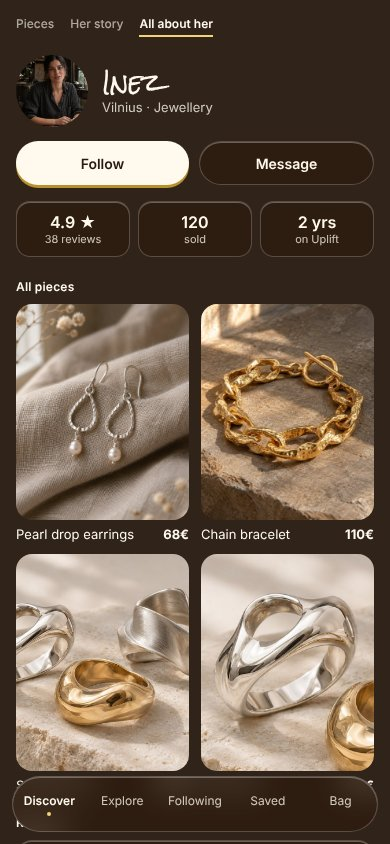
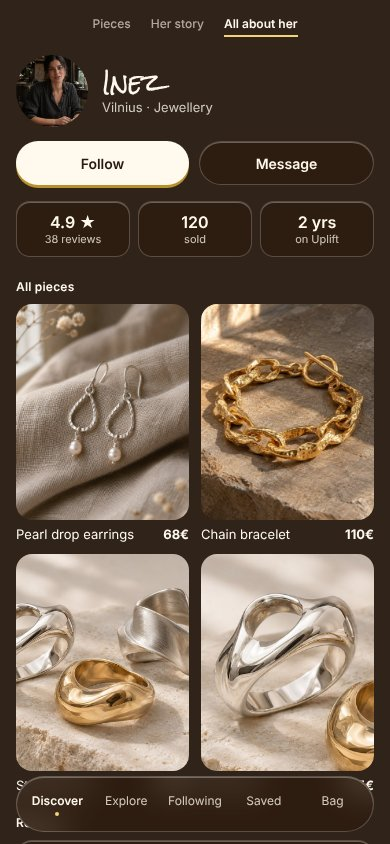
Discover v3 fixes: centred tabs, equal thumbs, bounce instead of hint text, no ellipsis + 20-char titles, centred nav
Claude-Session: https://claude.ai/code/session_016UKgzHdCXnhGePkvkRhLow

diff --git a/docs/design/screens/03-discover-v3.dc.html b/docs/design/screens/03-discover-v3.dc.html
@@ -52,14 +52,17 @@ button.sec:not(.gs){background:transparent;border:0}
 .more{position:absolute;left:16px;right:16px;bottom:106px;z-index:8;display:grid;grid-template-columns:repeat(4,minmax(0,1fr));gap:8px}
 .tb{width:100%;height:72px;border-radius:14px;overflow:hidden;border:0;padding:0;background:none;cursor:pointer;flex-shrink:0;position:relative}
 .tb img{width:100%;height:100%;object-fit:cover;display:block}
-.tb.sel{outline:2px solid #f3d27a;outline-offset:2px}
+.tb.sel{box-shadow:inset 0 0 0 2px #f3d27a}.tb.sel img{border-radius:12px;transform:scale(.9)}
+.tb img{transition:transform .2s}
 .nxt{position:absolute;left:16px;right:16px;bottom:78px;height:16px;line-height:16px;z-index:7;display:flex;align-items:center;gap:6px;font-size:12px;color:rgba(255,250,237,.9);white-space:nowrap;overflow:hidden}
 .page{position:absolute;inset:0;z-index:12;background:#30231a;transform:translateY(100%);transition:transform .3s cubic-bezier(.2,.8,.2,1);overflow-y:auto;scrollbar-width:none}
 .page::-webkit-scrollbar{display:none}
 .page.on{transform:none}
 .fact{display:flex;justify-content:space-between;gap:12px;padding:11px 0;border-bottom:1px solid rgba(255,250,237,.1);font-size:14px}
 .ghint{position:absolute;right:14px;top:150px;z-index:7;font:600 12px Inter,sans-serif;background:rgba(22,16,11,.6);border-radius:999px;padding:6px 12px}
-@media (prefers-reduced-motion:reduce){.page,.hero{transition:none}}
+@keyframes peek{0%,100%{transform:none}30%{transform:translateX(-64px)}55%{transform:translateX(0)}70%{transform:translateX(-18px)}85%{transform:translateX(0)}}
+.mk:first-child .pan{animation:peek 1.6s cubic-bezier(.3,.7,.3,1) 1.2s 1 both}
+@media (prefers-reduced-motion:reduce){.page,.hero{transition:none}.mk:first-child .pan{animation:none}}
 </style>  <div class="feed"><section class="mk" aria-label="Inez">
  <div class="lay">
   <div class="pan">
@@ -67,15 +70,14 @@ button.sec:not(.gs){background:transparent;border:0}
     <div aria-hidden="true" style="position:absolute;left:0;right:0;top:0;height:160px;z-index:5;pointer-events:none;background:linear-gradient(rgba(22,16,11,.6),rgba(22,16,11,.25) 55%,rgba(22,16,11,0))"></div>
     <div aria-hidden="true" style="position:absolute;left:0;right:0;bottom:0;height:300px;background:linear-gradient(rgba(22,16,11,0),rgba(22,16,11,.55))"></div>
     <div style="position:absolute;left:16px;right:16px;top:16px;z-index:7;display:flex;flex-direction:column;gap:12px">
-      <div style="display:flex;gap:16px"><span style="font:600 12px Inter,sans-serif;color:#fffaed;padding-bottom:4px;border-bottom:2px solid #f3d27a">Pieces</span><span style="font:500 12px Inter,sans-serif;color:rgba(255,250,237,.62);padding-bottom:4px;border-bottom:2px solid transparent">Her story</span><span style="font:500 12px Inter,sans-serif;color:rgba(255,250,237,.62);padding-bottom:4px;border-bottom:2px solid transparent">All about her</span></div>
+      <div style="display:flex;gap:20px;justify-content:center"><span style="font:600 12px Inter,sans-serif;color:#fffaed;padding-bottom:4px;border-bottom:2px solid #f3d27a">Pieces</span><span style="font:500 12px Inter,sans-serif;color:rgba(255,250,237,.62);padding-bottom:4px;border-bottom:2px solid transparent">Her story</span><span style="font:500 12px Inter,sans-serif;color:rgba(255,250,237,.62);padding-bottom:4px;border-bottom:2px solid transparent">All about her</span></div>
       <div style="display:flex;align-items:center;gap:10px"><img src="/img/inez.jpg" alt="" style="width:40px;height:40px;border-radius:50%;object-fit:cover;object-position:center 20%;display:block;flex-shrink:0"><span style="flex:1;min-width:0"><span class="hand" style="display:block;font-size:17px;line-height:1.3">Inez</span><span style="display:block;font-size:12px;color:rgba(255,250,237,.86)">Vilnius · Jewellery</span></span><button type="button" class="sec gs" style="padding:0 16px;height:40px">Follow</button></div>
     </div>
     <img src="{{stk0}}" alt="" style="position:absolute;right:16px;top:128px;z-index:6;width:104px;height:auto;transform:rotate(6deg);filter:drop-shadow(0 6px 10px rgba(0,0,0,.35))">
-    <span class="ghint" style="top:auto;bottom:264px;right:16px">Swipe ← to meet her</span>
     <div class="bar g">
       <button type="button" onClick="{{open0}}" style="flex:1;min-width:0;background:none;border:0;padding:0;color:#fffaed;text-align:left;cursor:pointer">
-        <span class="hand" style="display:block;font-size:16px;line-height:1.35;white-space:nowrap;overflow:hidden;text-overflow:ellipsis">{{t0}} ›</span>
-        <span style="display:block;font-size:12px;color:rgba(255,250,237,.82);margin-top:2px;white-space:nowrap;overflow:hidden;text-overflow:ellipsis"><b style="color:#fffaed;font-size:14px">{{p0}}</b> · {{s0}}</span>
+        <span class="hand" style="display:block;font-size:16px;line-height:1.35;white-space:nowrap">{{t0}}</span>
+        <span style="display:block;font-size:12px;color:rgba(255,250,237,.82);margin-top:2px;white-space:nowrap"><b style="color:#fffaed;font-size:14px">{{p0}}</b> · Details ›</span>
       </button>
       <button type="button" class="cta" style="height:46px;padding:0 16px;flex-shrink:0">Add to bag</button>
     </div>
@@ -87,15 +89,15 @@ button.sec:not(.gs){background:transparent;border:0}
     <div aria-hidden="true" style="position:absolute;left:0;right:0;top:0;height:160px;z-index:5;pointer-events:none;background:linear-gradient(rgba(22,16,11,.6),rgba(22,16,11,.25) 55%,rgba(22,16,11,0))"></div>
     <div aria-hidden="true" style="position:absolute;left:0;right:0;bottom:0;height:380px;background:linear-gradient(rgba(22,16,11,0),rgba(22,16,11,.88))"></div>
     <div style="position:absolute;left:16px;right:16px;top:16px;z-index:7;display:flex;flex-direction:column;gap:12px">
-      <div style="display:flex;gap:16px"><span style="font:500 12px Inter,sans-serif;color:rgba(255,250,237,.62);padding-bottom:4px;border-bottom:2px solid transparent">Pieces</span><span style="font:600 12px Inter,sans-serif;color:#fffaed;padding-bottom:4px;border-bottom:2px solid #f3d27a">Her story</span><span style="font:500 12px Inter,sans-serif;color:rgba(255,250,237,.62);padding-bottom:4px;border-bottom:2px solid transparent">All about her</span></div>
+      <div style="display:flex;gap:20px;justify-content:center"><span style="font:500 12px Inter,sans-serif;color:rgba(255,250,237,.62);padding-bottom:4px;border-bottom:2px solid transparent">Pieces</span><span style="font:600 12px Inter,sans-serif;color:#fffaed;padding-bottom:4px;border-bottom:2px solid #f3d27a">Her story</span><span style="font:500 12px Inter,sans-serif;color:rgba(255,250,237,.62);padding-bottom:4px;border-bottom:2px solid transparent">All about her</span></div>
       <div style="display:flex;align-items:center;gap:10px"><img src="/img/inez.jpg" alt="" style="width:40px;height:40px;border-radius:50%;object-fit:cover;object-position:center 20%;display:block;flex-shrink:0"><span style="flex:1;min-width:0"><span class="hand" style="display:block;font-size:17px;line-height:1.3">Inez</span><span style="display:block;font-size:12px;color:rgba(255,250,237,.86)">Vilnius · Jewellery</span></span><button type="button" class="sec gs" style="padding:0 16px;height:40px">Follow</button></div>
     </div>
     <span style="position:absolute;left:50%;top:44%;transform:translate(-50%,-50%);width:76px;height:76px;border-radius:50%;background:rgba(22,16,11,.6);display:flex;align-items:center;justify-content:center;z-index:6"><svg width="26" height="26" viewBox="0 0 24 24" fill="#fffaed"><path d="M7 4l13 8-13 8z"/></svg></span>
-    <div style="position:absolute;left:16px;right:16px;bottom:96px;z-index:6"><span class="m" style="font-size:12px">Her story · 0:24</span><p style="margin:6px 0 0;font-size:18px;line-height:1.45">“I carve every ring in wax first, then cast it in silver here in Užupis.”</p><span class="m" style="display:block;font-size:12px;margin-top:14px">Swipe ← all about her</span></div>
+    <div style="position:absolute;left:16px;right:16px;bottom:96px;z-index:6"><span class="m" style="font-size:12px">Her story · 0:24</span><p style="margin:6px 0 0;font-size:18px;line-height:1.45">“I carve every ring in wax first, then cast it in silver here in Užupis.”</p></div>
   </div>
   <div class="pan" style="background:#30231a">
     <div class="prof">
-      <div style="padding-top:16px"><div style="display:flex;gap:16px"><span style="font:500 12px Inter,sans-serif;color:rgba(255,250,237,.62);padding-bottom:4px;border-bottom:2px solid transparent">Pieces</span><span style="font:500 12px Inter,sans-serif;color:rgba(255,250,237,.62);padding-bottom:4px;border-bottom:2px solid transparent">Her story</span><span style="font:600 12px Inter,sans-serif;color:#fffaed;padding-bottom:4px;border-bottom:2px solid #f3d27a">All about her</span></div></div>
+      <div style="padding-top:16px"><div style="display:flex;gap:20px;justify-content:center"><span style="font:500 12px Inter,sans-serif;color:rgba(255,250,237,.62);padding-bottom:4px;border-bottom:2px solid transparent">Pieces</span><span style="font:500 12px Inter,sans-serif;color:rgba(255,250,237,.62);padding-bottom:4px;border-bottom:2px solid transparent">Her story</span><span style="font:600 12px Inter,sans-serif;color:#fffaed;padding-bottom:4px;border-bottom:2px solid #f3d27a">All about her</span></div></div>
       <div style="display:flex;align-items:center;gap:14px;margin-top:18px"><img src="/img/inez.jpg" alt="" style="width:72px;height:72px;border-radius:50%;object-fit:cover;object-position:center 20%;display:block;flex-shrink:0"><span style="flex:1"><span class="hand" style="display:block;font-size:24px;line-height:1.3">Inez</span><span class="m" style="font-size:13px">Vilnius · Jewellery</span></span></div>
       <div style="display:flex;gap:10px;margin-top:14px"><button type="button" class="cta" style="flex:1;height:44px">Follow</button><button type="button" class="sec gs" style="flex:1;height:44px">Message</button></div>
       <div style="display:grid;grid-template-columns:repeat(3,1fr);gap:8px;margin-top:16px"><div class="gs" style="border-radius:14px;padding:10px;text-align:center"><span style="display:block;font:600 16px Inter,sans-serif">4.9 ★</span><span class="m" style="font-size:11px">38 reviews</span></div><div class="gs" style="border-radius:14px;padding:10px;text-align:center"><span style="display:block;font:600 16px Inter,sans-serif">120</span><span class="m" style="font-size:11px">sold</span></div><div class="gs" style="border-radius:14px;padding:10px;text-align:center"><span style="display:block;font:600 16px Inter,sans-serif">2 yrs</span><span class="m" style="font-size:11px">on Uplift</span></div></div>
@@ -124,15 +126,14 @@ button.sec:not(.gs){background:transparent;border:0}
     <div aria-hidden="true" style="position:absolute;left:0;right:0;top:0;height:160px;z-index:5;pointer-events:none;background:linear-gradient(rgba(22,16,11,.6),rgba(22,16,11,.25) 55%,rgba(22,16,11,0))"></div>
     <div aria-hidden="true" style="position:absolute;left:0;right:0;bottom:0;height:300px;background:linear-gradient(rgba(22,16,11,0),rgba(22,16,11,.55))"></div>
     <div style="position:absolute;left:16px;right:16px;top:16px;z-index:7;display:flex;flex-direction:column;gap:12px">
-      <div style="display:flex;gap:16px"><span style="font:600 12px Inter,sans-serif;color:#fffaed;padding-bottom:4px;border-bottom:2px solid #f3d27a">Pieces</span><span style="font:500 12px Inter,sans-serif;color:rgba(255,250,237,.62);padding-bottom:4px;border-bottom:2px solid transparent">Her story</span><span style="font:500 12px Inter,sans-serif;color:rgba(255,250,237,.62);padding-bottom:4px;border-bottom:2px solid transparent">All about her</span></div>
+      <div style="display:flex;gap:20px;justify-content:center"><span style="font:600 12px Inter,sans-serif;color:#fffaed;padding-bottom:4px;border-bottom:2px solid #f3d27a">Pieces</span><span style="font:500 12px Inter,sans-serif;color:rgba(255,250,237,.62);padding-bottom:4px;border-bottom:2px solid transparent">Her story</span><span style="font:500 12px Inter,sans-serif;color:rgba(255,250,237,.62);padding-bottom:4px;border-bottom:2px solid transparent">All about her</span></div>
       <div style="display:flex;align-items:center;gap:10px"><img src="/img/mara.jpg" alt="" style="width:40px;height:40px;border-radius:50%;object-fit:cover;object-position:center 20%;display:block;flex-shrink:0"><span style="flex:1;min-width:0"><span class="hand" style="display:block;font-size:17px;line-height:1.3">Mara</span><span style="display:block;font-size:12px;color:rgba(255,250,237,.86)">Berlin · Ceramics</span></span><button type="button" class="sec gs" style="padding:0 16px;height:40px">Follow</button></div>
     </div>
     <img src="{{stk1}}" alt="" style="position:absolute;right:16px;top:128px;z-index:6;width:104px;height:auto;transform:rotate(6deg);filter:drop-shadow(0 6px 10px rgba(0,0,0,.35))">
-    
     <div class="bar g">
       <button type="button" onClick="{{open1}}" style="flex:1;min-width:0;background:none;border:0;padding:0;color:#fffaed;text-align:left;cursor:pointer">
-        <span class="hand" style="display:block;font-size:16px;line-height:1.35;white-space:nowrap;overflow:hidden;text-overflow:ellipsis">{{t1}} ›</span>
-        <span style="display:block;font-size:12px;color:rgba(255,250,237,.82);margin-top:2px;white-space:nowrap;overflow:hidden;text-overflow:ellipsis"><b style="color:#fffaed;font-size:14px">{{p1}}</b> · {{s1}}</span>
+        <span class="hand" style="display:block;font-size:16px;line-height:1.35;white-space:nowrap">{{t1}}</span>
+        <span style="display:block;font-size:12px;color:rgba(255,250,237,.82);margin-top:2px;white-space:nowrap"><b style="color:#fffaed;font-size:14px">{{p1}}</b> · Details ›</span>
       </button>
       <button type="button" class="cta" style="height:46px;padding:0 16px;flex-shrink:0">Add to bag</button>
     </div>
@@ -144,15 +145,15 @@ button.sec:not(.gs){background:transparent;border:0}
     <div aria-hidden="true" style="position:absolute;left:0;right:0;top:0;height:160px;z-index:5;pointer-events:none;background:linear-gradient(rgba(22,16,11,.6),rgba(22,16,11,.25) 55%,rgba(22,16,11,0))"></div>
     <div aria-hidden="true" style="position:absolute;left:0;right:0;bottom:0;height:380px;background:linear-gradient(rgba(22,16,11,0),rgba(22,16,11,.88))"></div>
     <div style="position:absolute;left:16px;right:16px;top:16px;z-index:7;display:flex;flex-direction:column;gap:12px">
-      <div style="display:flex;gap:16px"><span style="font:500 12px Inter,sans-serif;color:rgba(255,250,237,.62);padding-bottom:4px;border-bottom:2px solid transparent">Pieces</span><span style="font:600 12px Inter,sans-serif;color:#fffaed;padding-bottom:4px;border-bottom:2px solid #f3d27a">Her story</span><span style="font:500 12px Inter,sans-serif;color:rgba(255,250,237,.62);padding-bottom:4px;border-bottom:2px solid transparent">All about her</span></div>
+      <div style="display:flex;gap:20px;justify-content:center"><span style="font:500 12px Inter,sans-serif;color:rgba(255,250,237,.62);padding-bottom:4px;border-bottom:2px solid transparent">Pieces</span><span style="font:600 12px Inter,sans-serif;color:#fffaed;padding-bottom:4px;border-bottom:2px solid #f3d27a">Her story</span><span style="font:500 12px Inter,sans-serif;color:rgba(255,250,237,.62);padding-bottom:4px;border-bottom:2px solid transparent">All about her</span></div>
       <div style="display:flex;align-items:center;gap:10px"><img src="/img/mara.jpg" alt="" style="width:40px;height:40px;border-radius:50%;object-fit:cover;object-position:center 20%;display:block;flex-shrink:0"><span style="flex:1;min-width:0"><span class="hand" style="display:block;font-size:17px;line-height:1.3">Mara</span><span style="display:block;font-size:12px;color:rgba(255,250,237,.86)">Berlin · Ceramics</span></span><button type="button" class="sec gs" style="padding:0 16px;height:40px">Follow</button></div>
     </div>
     <span style="position:absolute;left:50%;top:44%;transform:translate(-50%,-50%);width:76px;height:76px;border-radius:50%;background:rgba(22,16,11,.6);display:flex;align-items:center;justify-content:center;z-index:6"><svg width="26" height="26" viewBox="0 0 24 24" fill="#fffaed"><path d="M7 4l13 8-13 8z"/></svg></span>
-    <div style="position:absolute;left:16px;right:16px;bottom:96px;z-index:6"><span class="m" style="font-size:12px">Her story · 0:24</span><p style="margin:6px 0 0;font-size:18px;line-height:1.45">“Every plate gets two coats of glaze, and no two speckle the same.”</p><span class="m" style="display:block;font-size:12px;margin-top:14px">Swipe ← all about her</span></div>
+    <div style="position:absolute;left:16px;right:16px;bottom:96px;z-index:6"><span class="m" style="font-size:12px">Her story · 0:24</span><p style="margin:6px 0 0;font-size:18px;line-height:1.45">“Every plate gets two coats of glaze, and no two speckle the same.”</p></div>
   </div>
   <div class="pan" style="background:#30231a">
     <div class="prof">
-      <div style="padding-top:16px"><div style="display:flex;gap:16px"><span style="font:500 12px Inter,sans-serif;color:rgba(255,250,237,.62);padding-bottom:4px;border-bottom:2px solid transparent">Pieces</span><span style="font:500 12px Inter,sans-serif;color:rgba(255,250,237,.62);padding-bottom:4px;border-bottom:2px solid transparent">Her story</span><span style="font:600 12px Inter,sans-serif;color:#fffaed;padding-bottom:4px;border-bottom:2px solid #f3d27a">All about her</span></div></div>
+      <div style="padding-top:16px"><div style="display:flex;gap:20px;justify-content:center"><span style="font:500 12px Inter,sans-serif;color:rgba(255,250,237,.62);padding-bottom:4px;border-bottom:2px solid transparent">Pieces</span><span style="font:500 12px Inter,sans-serif;color:rgba(255,250,237,.62);padding-bottom:4px;border-bottom:2px solid transparent">Her story</span><span style="font:600 12px Inter,sans-serif;color:#fffaed;padding-bottom:4px;border-bottom:2px solid #f3d27a">All about her</span></div></div>
       <div style="display:flex;align-items:center;gap:14px;margin-top:18px"><img src="/img/mara.jpg" alt="" style="width:72px;height:72px;border-radius:50%;object-fit:cover;object-position:center 20%;display:block;flex-shrink:0"><span style="flex:1"><span class="hand" style="display:block;font-size:24px;line-height:1.3">Mara</span><span class="m" style="font-size:13px">Berlin · Ceramics</span></span></div>
       <div style="display:flex;gap:10px;margin-top:14px"><button type="button" class="cta" style="flex:1;height:44px">Follow</button><button type="button" class="sec gs" style="flex:1;height:44px">Message</button></div>
       <div style="display:grid;grid-template-columns:repeat(3,1fr);gap:8px;margin-top:16px"><div class="gs" style="border-radius:14px;padding:10px;text-align:center"><span style="display:block;font:600 16px Inter,sans-serif">5.0 ★</span><span class="m" style="font-size:11px">21 reviews</span></div><div class="gs" style="border-radius:14px;padding:10px;text-align:center"><span style="display:block;font:600 16px Inter,sans-serif">64</span><span class="m" style="font-size:11px">sold</span></div><div class="gs" style="border-radius:14px;padding:10px;text-align:center"><span style="display:block;font:600 16px Inter,sans-serif">1 yr</span><span class="m" style="font-size:11px">on Uplift</span></div></div>
@@ -175,8 +176,7 @@ button.sec:not(.gs){background:transparent;border:0}
     </div>
  </div>
 </section></div>
-  <nav aria-label="Main" class="gs" style="position:absolute;left:12px;right:12px;bottom:12px;height:54px;border-radius:999px;display:grid;grid-template-columns:repeat(5,1fr);align-items:center;z-index:9"><a href="#" aria-current=page style="display:flex;flex-direction:column;align-items:center;justify-content:center;gap:4px;min-height:44px;color:#fffaed;text-decoration:none;font:600 12px Inter,sans-serif">Discover<span style="width:4px;height:4px;border-radius:50%;background:#f3d27a"></span></a><a href="#" style="display:flex;flex-direction:column;align-items:center;justify-content:center;gap:4px;min-height:44px;color:rgba(255,250,237,.78);text-decoration:none;font:400 12px Inter,sans-serif">Explore<span style="width:4px;height:4px;border-radius:50%;background:transparent"></span></a><a href="#" style="display:flex;flex-direction:column;align-items:center;justify-content:center;gap:4px;min-height:44px;color:rgba(255,250,237,.78);text-decoration:none;font:400 12px Inter,sans-serif">Following<span style="width:4px;height:4px;border-radius:50%;background:transparent"></span></a><a href="#" style="display:flex;flex-direction:column;align-items:center;justify-content:center;gap:4px;min-height:44px;color:rgba(255,250,237,.78);text-decoration:none;font:400 12px Inter,sans-serif">Saved<span style="width:4px;height:4px;border-radius:50%;background:transparent"></span></a><a href="#" style="display:flex;flex-direction:column;align-items:center;justify-content:center;gap:4px;min-height:44px;color:rgba(255,250,237,.78);text-decoration:none;font:400 12px Inter,sans-serif">Bag<span style="width:4px;height:4px;border-radius:50%;background:transparent"></span></a></nav>
-
+<nav aria-label="Main" class="gs" style="position:absolute;left:16px;right:16px;bottom:12px;height:54px;border-radius:999px;display:grid;grid-template-columns:repeat(5,minmax(0,1fr));padding:0 6px;align-items:center;z-index:9"><a href="#" style="display:flex;flex-direction:column;align-items:center;justify-content:center;gap:4px;min-height:44px;text-align:center;color:#fffaed;text-decoration:none;font:600 12px Inter,sans-serif">Discover<span style="width:4px;height:4px;border-radius:50%;background:#f3d27a"></span></a><a href="#" style="display:flex;flex-direction:column;align-items:center;justify-content:center;gap:4px;min-height:44px;text-align:center;color:rgba(255,250,237,.78);text-decoration:none;font:400 12px Inter,sans-serif">Explore<span style="width:4px;height:4px;border-radius:50%;background:transparent"></span></a><a href="#" style="display:flex;flex-direction:column;align-items:center;justify-content:center;gap:4px;min-height:44px;text-align:center;color:rgba(255,250,237,.78);text-decoration:none;font:400 12px Inter,sans-serif">Following<span style="width:4px;height:4px;border-radius:50%;background:transparent"></span></a><a href="#" style="display:flex;flex-direction:column;align-items:center;justify-content:center;gap:4px;min-height:44px;text-align:center;color:rgba(255,250,237,.78);text-decoration:none;font:400 12px Inter,sans-serif">Saved<span style="width:4px;height:4px;border-radius:50%;background:transparent"></span></a><a href="#" style="display:flex;flex-direction:column;align-items:center;justify-content:center;gap:4px;min-height:44px;text-align:center;color:rgba(255,250,237,.78);text-decoration:none;font:400 12px Inter,sans-serif">Bag<span style="width:4px;height:4px;border-radius:50%;background:transparent"></span></a></nav>
 </div>
 </x-dc>
 <script type="text/x-dc" data-dc-script data-props='{"startOn":{"editor":"enum","options":["closed","open"],"default":"closed"},"$preview":{"width":390,"height":844}}'>

diff --git a/docs/ai/FIXES.md b/docs/ai/FIXES.md
@@ -131,6 +131,13 @@ Spec: `docs/design/screens/03-discover-v3.dc.html`. References (real Rock Salt):
 - Story panel: full-bleed video poster, play 76px centre, quote 18px at bottom 96, "Swipe ← all about her".
 - About panel: avatar 72, name Rock Salt 24, Follow + Message 44px, 3 stat tiles, "All pieces" 2-column grid, review, "Up next" card at the end.
 
+- **Update 2026-11-25 11:45 (Matas):**
+  - Tabs "Pieces · Her story · All about her" are **centred** at the top, like TikTok.
+  - Thumbs: 4 tiles exactly equal, equal 8px gaps, row edges = bar edges. Selected = 2px butter ring drawn **inside** the tile (image scales to 90%), so no tile looks bigger or shifted.
+  - **No hint texts** ("Swipe ← …" removed everywhere). Instead, first visit only: 1.2s after Discover opens, the panels do a small bounce to the left (−64px, back, −18px, back, 1.6s) so the next panel peeks out. Reduced motion: no bounce.
+  - **No ellipsis on titles, ever.** The full title always shows on one line in the bar (Rock Salt 16). Studio "Add piece" title field gets a hard limit of **20 characters** with a live counter ("19/20"); existing longer titles must be shortened in the data. Second line in the bar is only "68€ · Details ›".
+  - Bottom nav: 5 equal columns inside the pill with 6px inner padding, every label centred in its column; the pill uses the same 16px side margin as everything else.
+
 - [ ] **9.1** Build it. Data from `@/lib/data` (pieces of the maker, first = the one Discover picked). Replaces the phone feed in `app/(site)/page.tsx`; desktop stays P7.
 - [ ] **9.2** Proof: screenshots at 390×844 and iPhone Safari next to the four references; every left edge at x=16 and right edge at x=374 (qa: no element between 0–15 or 375–390 except full-bleed photos); thumbs row and bar the same width; tap a thumb → everything switches; details open/close returns to the same piece and photo; sideways snaps per panel; up/down snaps per maker.
 
